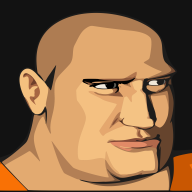
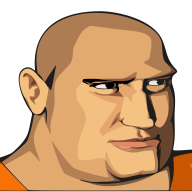
Ícone do app com fundo transparente

Changed region(s): [[0.0, 0.0, 1.0, 0.8438], [0.0, 0.9688, 1.0, 1.0]]

diff --git a/__tests__/pwa.test.ts b/__tests__/pwa.test.ts
@@ -44,6 +44,12 @@ describe('app instalado (atalho da tela inicial)', () => {
     expect(size('icon-512.png')).toEqual([512, 512]);
     expect(size('apple-touch-icon.png')).toEqual([180, 180]);
     expect(size('favicon.png')).toEqual([48, 48]);
+    // fundo transparente: o canto de cima (fora do desenho) não tem cor
+    const { PNG } = require('pngjs') as unknown as { PNG: { sync: { read: (b: unknown) => { data: Uint8Array } } } };
+    for (const file of ['icon-192.png', 'icon-512.png', 'apple-touch-icon.png', 'favicon.png']) {
+      const { data } = PNG.sync.read(readFileSync(`${__dirname}/../public/${file}`));
+      expect([file, data[3]]).toEqual([file, 0]);
+    }
     expect(html).toContain('<link rel="icon" type="image/png" href="/favicon.png" />');
     expect(html).toContain('<link rel="apple-touch-icon" href="/apple-touch-icon.png" />');
   });
